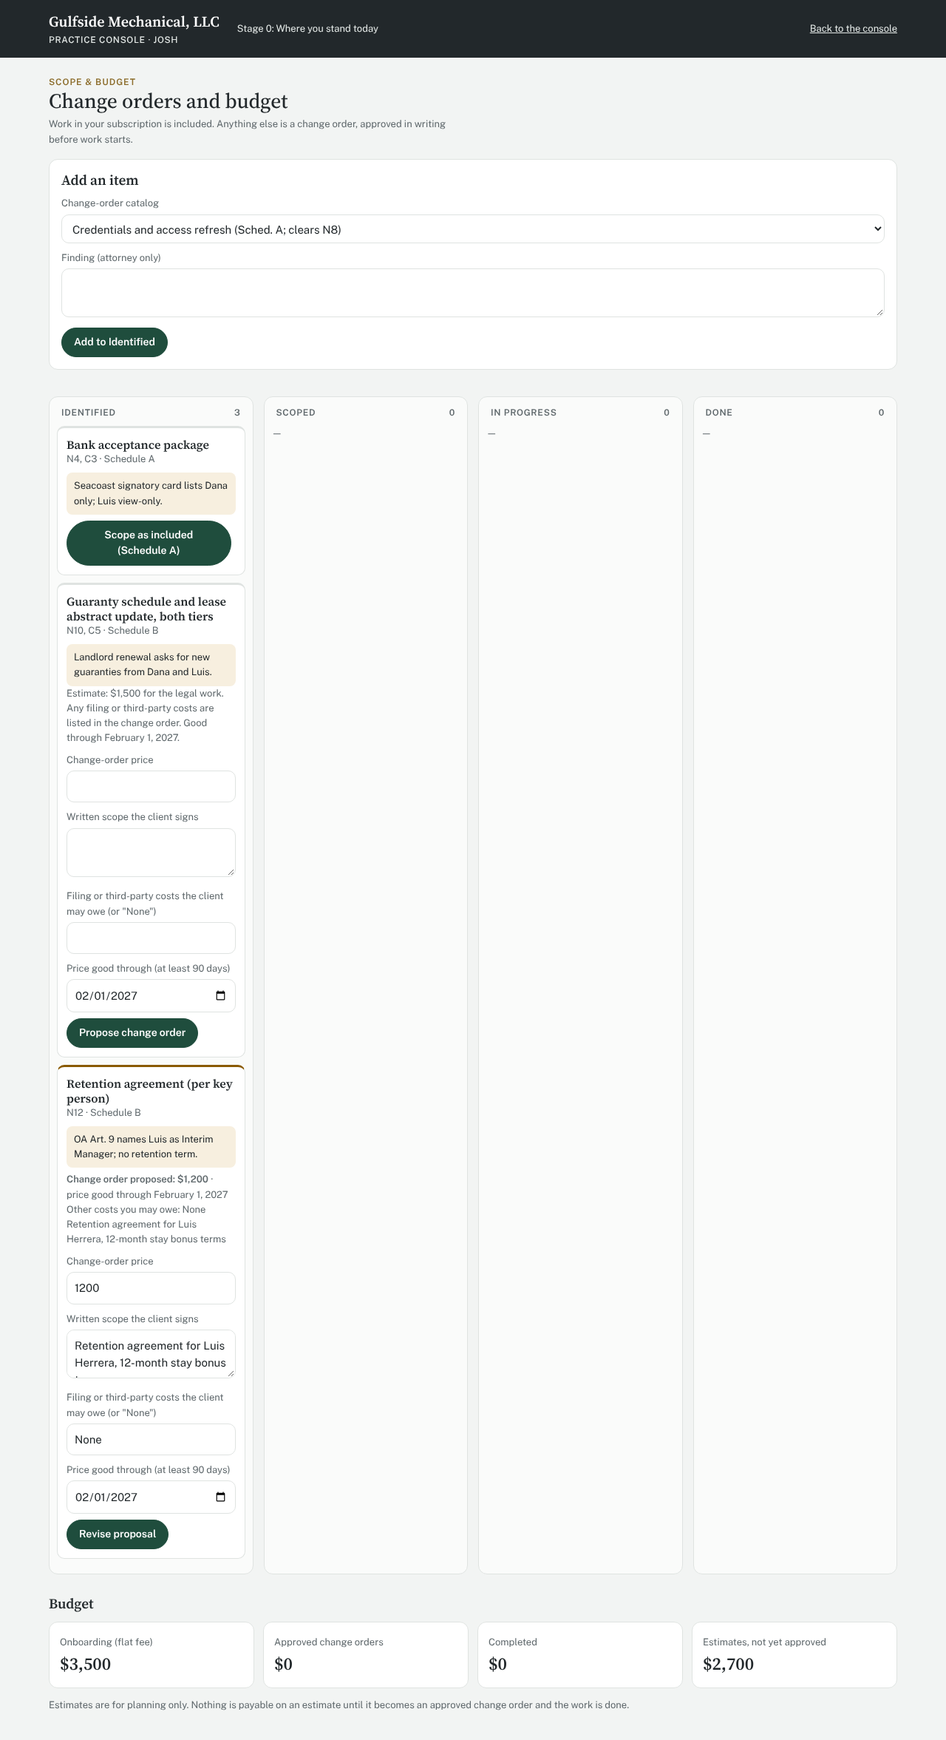
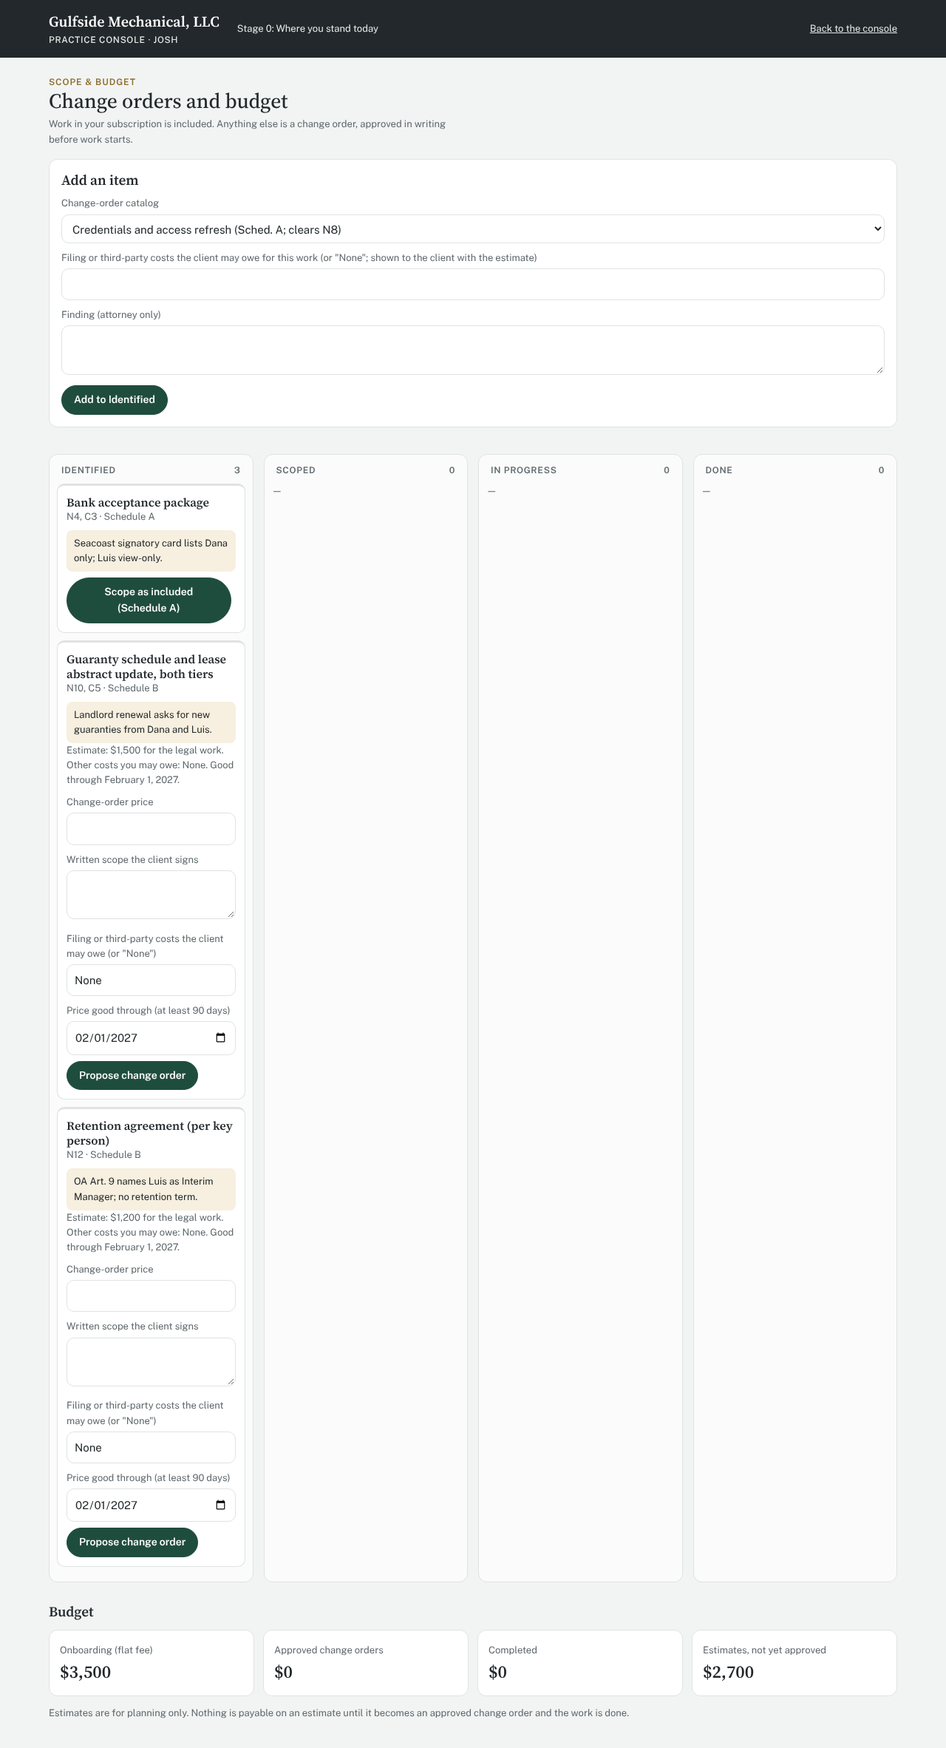
Estimates state other costs the client may owe; fixed through the estimate date
Claude-Session: https://claude.ai/code/session_01JJqaAz9kSZLGUAjjF7xQKQ

diff --git a/core/test/rls.test.ts b/core/test/rls.test.ts
@@ -14,7 +14,7 @@ before(async () => {
   const admin = new pg.Client({ connectionString: base + "/postgres" }); await admin.connect();
   await admin.query(`create database ${db}`); await admin.end();
   pool = new pg.Pool({ connectionString: `${base}/${db}` });
-  for (const f of ["001_init.sql", "002_catalog.sql", "003_board_profile.sql", "008_estimate_terms.sql"]) await pool.query(sql(f));
+  for (const f of ["001_init.sql", "002_catalog.sql", "003_board_profile.sql", "008_estimate_terms.sql", "009_estimate_costs.sql"]) await pool.query(sql(f));
   const one = async (q: string, p: unknown[] = []) => (await pool.query(q + " returning id", p)).rows[0].id;
   id.atty = await one("insert into ws.person(name, role) values ('Josh','attorney')");
   id.owner = await one("insert into ws.person(name, role) values ('Dana','client')");
@@ -84,7 +84,7 @@ test("every profile value carries a source from its own tier", async () => {
   await assert.rejects(as("owner", "ent", c => c.query("insert into ws.profile_value(workspace_id,field,value,source_id) values (ws.cur_ws(),'Lease','x',(select id from ws.source where label='S-DESC'))")), /row-level security/);
 });
 test("board: Scoped only by signed approval or Schedule A; Done ⇒ nodes green; Done is final", async () => {
-  const ins = (co: string, clears: string) => `insert into ws.board_item(workspace_id,co_id,title,clears,allowance) values (ws.cur_ws(),'${co}','${co}','${clears}',1200) returning id`;
+  const ins = (co: string, clears: string) => `insert into ws.board_item(workspace_id,co_id,title,clears,allowance,estimate_costs) values (ws.cur_ws(),'${co}','${co}','${clears}',1200,'None') returning id`;
   await assert.rejects(as("owner", "ent", c => c.query(ins("CO-RET", "{N12}"))), /row-level security/);
   await assert.rejects(as("atty", "ent", c => c.query("insert into ws.board_item(workspace_id,title,clears,col,price,approval_ref,approved_at) values (ws.cur_ws(),'x','{N12}','Done',1,'x',now())")), /start in Identified/);
   // Schedule A: included, no change order
@@ -111,10 +111,12 @@ test("board: Scoped only by signed approval or Schedule A; Done ⇒ nodes green;
   assert.deepEqual([bud.onboarding_fee, Number(bud.approved), Number(bud.completed)], [3500, 1200, 1200]);
 });
 test("estimates and offers: good through at least 90 days; lowered, never raised, before then; expired offers cannot be approved", async () => {
-  const id = await as("atty", "ent", c => c.query("insert into ws.board_item(workspace_id,co_id,title,clears,allowance) values (ws.cur_ws(),'CO-RET','Retention, second person','{N12}',1200) returning id, estimate_good_through, current_date + 90 as min").then(r => r.rows[0])) as any;
+  await assert.rejects(as("atty", "ent", c => c.query("insert into ws.board_item(workspace_id,co_id,title,clears,allowance) values (ws.cur_ws(),'CO-RET','No costs stated','{N12}',1200)")), /filing or third-party costs/);
+  const id = await as("atty", "ent", c => c.query("insert into ws.board_item(workspace_id,co_id,title,clears,allowance,estimate_costs) values (ws.cur_ws(),'CO-RET','Retention, second person','{N12}',1200,'None') returning id, estimate_good_through, current_date + 90 as min").then(r => r.rows[0])) as any;
   assert.equal(String(id.estimate_good_through), String(id.min));
   await assert.rejects(as("atty", "ent", c => c.query("update ws.board_item set allowance = 1500 where id = $1", [id.id])), /lowered, not raised/);
   await as("atty", "ent", c => c.query("update ws.board_item set allowance = 1000 where id = $1", [id.id]));
+  await assert.rejects(as("atty", "ent", c => c.query("update ws.board_item set estimate_costs = 'Recording fee' where id = $1", [id.id])), /fixed through/);
   await assert.rejects(as("atty", "ent", c => c.query("select ws.propose_change_order($1, 1200, 'Retention agreement, second key person', '')", [id.id])), /third-party costs/);
   await as("atty", "ent", c => c.query("select ws.propose_change_order($1, 1200, 'Retention agreement, second key person', 'None', current_date + 10)", [id.id]));
   const o = await as("atty", "ent", c => c.query("select offer_good_through, current_date + 90 as min from ws.board_item where id = $1", [id.id]).then(r => r.rows[0])) as any;

diff --git a/web/board.html b/web/board.html
@@ -66,6 +66,7 @@ section.add{background:var(--page);border:1px solid var(--rule);border-radius:12
   <section class="add" id="add" hidden>
     <h2>Add an item</h2>
     <label for="co">Change-order catalog</label><select id="co"></select>
+    <label for="costs">Filing or third-party costs the client may owe for this work (or "None"; shown to the client with the estimate)</label><input id="costs">
     <label for="finding">Finding (attorney only)</label><textarea id="finding"></textarea>
     <button id="addBtn" type="button">Add to Identified</button>
   </section>
@@ -101,13 +102,13 @@ function card(it){
   let h = `<div class="t">${esc(it.title)}</div><div class="small">${att ? esc((it.clears||[]).join(", ")) + (it.schedule ? " · Schedule " + esc(it.schedule) : "") : "Moves forward: " + esc((it.clears||[]).map(c => LABEL[c] || c).join(", ")) + (it.schedule === "A" ? " · included in your subscription" : it.schedule === "B" ? " · change order" : "")}</div>`;
   if (att && (it.finding || it.attorney_note)) h += `<div class="note">${esc(it.finding)}${it.attorney_note ? "<br>" + esc(it.attorney_note) : ""}</div>`;
   if (it.col === "Identified") {
-    if (it.schedule !== "A" && !pending) h += `<div class="small">Estimate: ${money(it.allowance)} for the legal work. Any filing or third-party costs are listed in the change order.${it.estimate_good_through ? " Good through " + day(it.estimate_good_through) + "." : ""}</div>`;
+    if (it.schedule !== "A" && !pending) h += `<div class="small">Estimate: ${money(it.allowance)} for the legal work. Other costs you may owe: ${esc(it.estimate_costs || "none stated")}.${it.estimate_good_through ? " Good through " + day(it.estimate_good_through) + "." : ""}</div>`;
     if (pending) h += `<div class="small" style="margin-top:6px"><strong>Change order proposed: ${money(it.proposed_price)}</strong>${it.offer_good_through ? " · price good through " + day(it.offer_good_through) : ""}<br>Other costs you may owe: ${esc(it.other_costs || "none stated")}<br>${esc(it.scope_text)}</div>`;
     if (att) {
       if (it.schedule === "A") h += `<div class="acts"><button data-a="included" data-id="${it.id}">Scope as included (Schedule A)</button></div>`;
       else h += `<label for="p${it.id}">Change-order price</label><input id="p${it.id}" type="number" min="0" step="100" value="${it.proposed_price ?? ""}">
         <label for="s${it.id}">Written scope the client signs</label><textarea id="s${it.id}">${esc(it.scope_text ?? "")}</textarea>
-        <label for="o${it.id}">Filing or third-party costs the client may owe (or "None")</label><input id="o${it.id}" value="${esc(it.other_costs ?? "")}">
+        <label for="o${it.id}">Filing or third-party costs the client may owe (or "None")</label><input id="o${it.id}" value="${esc(it.other_costs ?? it.estimate_costs ?? "")}">
         <label for="g${it.id}">Price good through (at least 90 days)</label><input id="g${it.id}" type="date" min="${iso90()}" value="${String(it.offer_good_through ?? "").slice(0, 10) || iso90()}">
         ${it.offered_price != null && it.offer_good_through ? `<div class="small">Offered ${money(it.offered_price)} through ${day(it.offer_good_through)}: before then the price can be lowered, not raised.</div>` : ""}
         <div class="acts"><button data-a="propose" data-id="${it.id}">${pending ? "Revise proposal" : "Propose change order"}</button></div>`;
@@ -147,7 +148,7 @@ function render(){
   });
 }
 async function load(){ try { data = await api("/api/board"); render(); } catch (e) { $("err").textContent = e.message; } }
-$("addBtn").onclick = () => act("/api/board", {co_id: $("co").value, finding: $("finding").value || null}).then(() => { $("finding").value = ""; });
+$("addBtn").onclick = () => act("/api/board", {co_id: $("co").value, finding: $("finding").value || null, estimate_costs: $("costs").value || null}).then(() => { $("finding").value = ""; $("costs").value = ""; });
 if (!AS || !WS) $("err").textContent = "Development sign-in: add ?as=<person-id>&ws=<workspace-id> to the address."; else load();
 </script>
 </body>

diff --git a/server/src/main.ts b/server/src/main.ts
@@ -27,8 +27,8 @@ const pool = process.env.CLOUD_SQL_INSTANCE
   ? new pg.Pool({ host: `/cloudsql/${process.env.CLOUD_SQL_INSTANCE}`, user: process.env.DB_USER ?? "postgres", password: process.env.DB_PASSWORD, database: process.env.DB_NAME ?? "oew", max: 5 })
   : new pg.Pool({ connectionString: process.env.DATABASE_URL });
 if (DEMO_MODE) {
-  // Demo data only: (re)seed when the schema is missing or older than the newest migration (008 adds board_item.offer_good_through).
-  const current = (await pool.query("select exists (select 1 from information_schema.columns where table_schema = 'ws' and table_name = 'board_item' and column_name = 'offer_good_through') ok")).rows[0].ok;
+  // Demo data only: (re)seed when the schema is missing or older than the newest migration (009 adds board_item.estimate_costs).
+  const current = (await pool.query("select exists (select 1 from information_schema.columns where table_schema = 'ws' and table_name = 'board_item' and column_name = 'estimate_costs') ok")).rows[0].ok;
   if (!current) { const c = await pool.connect(); try { await seedDemo(c); } finally { c.release(); } console.log("demo data seeded"); }
 }
 const hasDemoCookie = (req: http.IncomingMessage) => {
@@ -67,7 +67,7 @@ const routes: [string, RegExp, (x: Ctx, m: RegExpExecArray) => Promise<unknown>]
   ["GET", /^\/api\/board$/, async ({ c, role }) => {
     const me = (await c.query("select p.name, p.role, w.tier, cl.name client, coalesce(m.signer,false) signer from ws.person p, ws.workspace w join ws.client cl on cl.id=w.client_id left join ws.membership m on m.workspace_id=w.id and m.person_id=ws.me() where p.id=ws.me() and w.id=ws.cur_ws()")).rows[0];
     if (!me) throw new Error("not in scope");
-    const items = (await c.query(`select b.id, b.co_id, b.title, b.clears, b.col, b.allowance, b.estimate_good_through, b.price, b.proposed_price, b.other_costs, b.offer_good_through, b.scope_text, b.proposed_at, b.approved_at,
+    const items = (await c.query(`select b.id, b.co_id, b.title, b.clears, b.col, b.allowance, b.estimate_costs, b.estimate_good_through, b.price, b.proposed_price, b.other_costs, b.offer_good_through, b.scope_text, b.proposed_at, b.approved_at,
         d.schedule, a.typed_name signed_by, a.signed_at, n.finding, n.attorney_note
       from ws.board_item b left join ws.change_order_def d on d.id=b.co_id
       left join ws.change_order_approval a on a.id::text=b.approval_ref
@@ -143,8 +143,8 @@ const routes: [string, RegExp, (x: Ctx, m: RegExpExecArray) => Promise<unknown>]
   ["POST", /^\/api\/board$/, async ({ c, body }) => {
     const d = (await c.query("select * from ws.change_order_def where id=$1", [body.co_id])).rows[0];
     if (!d) throw new Error("unknown change order");
-    const r = (await c.query("insert into ws.board_item(workspace_id,co_id,title,clears,allowance) values (ws.cur_ws(),$1,$2,$3,$4) returning id",
-      [d.id, d.name, d.clears, Number(body.allowance ?? d.low) || 0])).rows[0];
+    const r = (await c.query("insert into ws.board_item(workspace_id,co_id,title,clears,allowance,estimate_costs) values (ws.cur_ws(),$1,$2,$3,$4,$5) returning id",
+      [d.id, d.name, d.clears, Number(body.allowance ?? d.low) || 0, body.estimate_costs ? String(body.estimate_costs) : null])).rows[0];
     if (body.finding || body.attorney_note) await c.query("insert into ws.board_note values ($1, ws.cur_ws(), $2, $3)", [r.id, body.finding ?? null, body.attorney_note ?? null]);
     return r;
   }],

diff --git a/server/src/demo-seed.ts b/server/src/demo-seed.ts
@@ -5,7 +5,7 @@ import { readFileSync } from "node:fs";
 import type pg from "pg";
 import { SAMPLE_DOCS } from "./sample-docs.ts";
 
-export const MIGRATIONS = ["001_init.sql", "002_catalog.sql", "003_board_profile.sql", "004_frontdoor.sql", "005_intake.sql", "006_profile.sql", "007_threads.sql", "008_estimate_terms.sql"];
+export const MIGRATIONS = ["001_init.sql", "002_catalog.sql", "003_board_profile.sql", "004_frontdoor.sql", "005_intake.sql", "006_profile.sql", "007_threads.sql", "008_estimate_terms.sql", "009_estimate_costs.sql"];
 export const DEMO = {
   attorney: "00000000-0000-4000-8000-000000000001", dana: "00000000-0000-4000-8000-000000000002",
   luis: "00000000-0000-4000-8000-000000000003", engine: "00000000-0000-4000-8000-000000000004",
@@ -43,7 +43,7 @@ export async function seedDemo(c: Q) {
       await c.query("insert into ws.node_status(workspace_id,node_id,status) values (ws.cur_ws(),$1,$2)", [s, n]);
     for (const [co, f] of [["CO-BANK","Seacoast signatory card lists Dana only; Luis view-only."],["CO-RET","OA Art. 9 names Luis as Interim Manager; no retention term."],["CO-GUAR","Landlord renewal asks for new guaranties from Dana and Luis."]]) {
       const d = (await c.query("select * from ws.change_order_def where id=$1", [co])).rows[0];
-      const id = (await c.query("insert into ws.board_item(workspace_id,co_id,title,clears,allowance) values (ws.cur_ws(),$1,$2,$3,$4) returning id", [co, d.name, d.clears, d.low])).rows[0].id;
+      const id = (await c.query("insert into ws.board_item(workspace_id,co_id,title,clears,allowance,estimate_costs) values (ws.cur_ws(),$1,$2,$3,$4,$5) returning id", [co, d.name, d.clears, d.low, d.low > 0 ? "None" : null])).rows[0].id;
       await c.query("insert into ws.board_note values ($1, ws.cur_ws(), $2, null)", [id, f]);
     }
   });

diff --git a/server/test/frontdoor.test.ts b/server/test/frontdoor.test.ts
@@ -35,7 +35,7 @@ const asWho = (p: string, fn: (c: pg.PoolClient) => Promise<any>) => inSession(p
 before(async () => {
   const a = new pg.Client({ connectionString: base + "/postgres" }); await a.connect(); await a.query(`create database ${db}`); await a.end();
   pool = new pg.Pool({ connectionString: `${base}/${db}` });
-  for (const f of ["001_init.sql", "002_catalog.sql", "003_board_profile.sql", "004_frontdoor.sql", "005_intake.sql", "006_profile.sql", "007_threads.sql", "008_estimate_terms.sql"]) await pool.query(readFileSync(new URL("../../core/db/" + f, import.meta.url), "utf8"));
+  for (const f of ["001_init.sql", "002_catalog.sql", "003_board_profile.sql", "004_frontdoor.sql", "005_intake.sql", "006_profile.sql", "007_threads.sql", "008_estimate_terms.sql", "009_estimate_costs.sql"]) await pool.query(readFileSync(new URL("../../core/db/" + f, import.meta.url), "utf8"));
   const one = async (q: string, p: unknown[] = []) => (await pool.query(q + " returning id", p)).rows[0].id;
   for (const [k, n, r] of [["atty", "Josh", "attorney"], ["dana", "Dana", "client"], ["luis", "Luis", "client"], ["engine", "engine", "agent"]]) id[k] = await one("insert into ws.person(name, role) values ($1,$2)", [n, r]);
   const cl = await one("insert into ws.client(name) values ('Gulfside Mechanical, LLC')");

diff --git a/server/test/intake.test.ts b/server/test/intake.test.ts
@@ -45,7 +45,7 @@ const OA_TEXT = "Operating Agreement of Gulfside Mechanical LLC. Article 9 Conti
 before(async () => {
   const a = new pg.Client({ connectionString: base + "/postgres" }); await a.connect(); await a.query(`create database ${db}`); await a.end();
   pool = new pg.Pool({ connectionString: `${base}/${db}` });
-  for (const f of ["001_init.sql", "002_catalog.sql", "003_board_profile.sql", "004_frontdoor.sql", "005_intake.sql", "006_profile.sql", "007_threads.sql", "008_estimate_terms.sql"]) await pool.query(readFileSync(new URL("../../core/db/" + f, import.meta.url), "utf8"));
+  for (const f of ["001_init.sql", "002_catalog.sql", "003_board_profile.sql", "004_frontdoor.sql", "005_intake.sql", "006_profile.sql", "007_threads.sql", "008_estimate_terms.sql", "009_estimate_costs.sql"]) await pool.query(readFileSync(new URL("../../core/db/" + f, import.meta.url), "utf8"));
   const one = async (q: string, p: unknown[] = []) => (await pool.query(q + " returning id", p)).rows[0].id;
   for (const [k, n, r] of [["atty", "Josh", "attorney"], ["dana", "Dana", "client"], ["engine", "engine", "agent"], ["luis", "Luis", "client"]]) id[k] = await one("insert into ws.person(name, role) values ($1,$2)", [n, r]);
   const other = await one("insert into ws.client(name) values ('Ortiz Holdings')");

diff --git a/server/test/profile.test.ts b/server/test/profile.test.ts
@@ -20,7 +20,7 @@ const profile = (ws: string) => as("atty", ws, c => c.query("select field, value
 before(async () => {
   const a = new pg.Client({ connectionString: base + "/postgres" }); await a.connect(); await a.query(`create database ${db}`); await a.end();
   pool = new pg.Pool({ connectionString: `${base}/${db}` });
-  for (const f of ["001_init.sql", "002_catalog.sql", "003_board_profile.sql", "004_frontdoor.sql", "005_intake.sql", "006_profile.sql", "007_threads.sql", "008_estimate_terms.sql"]) await pool.query(readFileSync(new URL("../../core/db/" + f, import.meta.url), "utf8"));
+  for (const f of ["001_init.sql", "002_catalog.sql", "003_board_profile.sql", "004_frontdoor.sql", "005_intake.sql", "006_profile.sql", "007_threads.sql", "008_estimate_terms.sql", "009_estimate_costs.sql"]) await pool.query(readFileSync(new URL("../../core/db/" + f, import.meta.url), "utf8"));
   const one = async (q: string, p: unknown[] = []) => (await pool.query(q + " returning id", p)).rows[0].id;
   for (const [k, n, r] of [["atty", "Josh", "attorney"], ["dana", "Dana", "client"], ["engine", "engine", "agent"]]) id[k] = await one("insert into ws.person(name, role) values ($1,$2)", [n, r]);
   const cl = await one("insert into ws.client(name) values ('Gulfside Mechanical, LLC')");

diff --git a/docs/design/architecture.md b/docs/design/architecture.md
@@ -26,7 +26,7 @@ Decided 2026-11-02 (proposal; Josh to confirm hosting). Preserves the data model
 ## Decisions 2026-11-03
 - **Stages:** short-term disability → long-term disability → retirement → exit, named per Bridges; boundary from the disability policy (docs/design/contingency-sequence-nodes.md, Stage mapping).
 - **R2 (role after stepping back) is personal-engagement work**, dual representation under Rules 4-1.7 and 4-1.13(e) with the carve-outs in owner letter § 2(C).
-- **Client look: B, "Family office"** (decided 2026-11-03): a private-client report. Serif headings, plain sans text, pine green accent, small brass eyebrows, white panels on a cool grey ground; home shows stages as a ladder (business, where they meet, your family office) with "Off your plate" per stage. Full headline kept. Applied to all client pages on the design canvas, and to web/workspace.html (2026-11-03: tabs Your plan, Thursday, Questions, Documents, Scope & budget; ladder built from /api/plan; screenshots docs/design/screens/workspace-home-lookB*.png). Fonts load from Google Fonts in the demo; self-host them before real client data (each page load otherwise tells Google the client's IP address). The Thursday tab lists questions by agenda position only; the client-visible ordering reasons wait on the ordering engine. web/attorney.html and web/board.html restyled the same day (attorney: dark console header; board: light header for the client, dark for the attorney; client board cards show plan-step names and "included in your subscription" or "change order" instead of node ids and Schedule letters). Screenshots: docs/design/screens/*-lookB.png. Estimate and offer terms built 2026-11-03 (core/db/008_estimate_terms.sql): every estimate and change-order price carries a good-through date at least 90 days out, enforced in the database; before that date it can be lowered, never raised; a change order cannot be proposed without stating other costs ("None" allowed) and cannot be approved after its date; the signed approval records the other costs and includes them in its digest. In demo mode the server reseeds when the schema predates 008.
+- **Client look: B, "Family office"** (decided 2026-11-03): a private-client report. Serif headings, plain sans text, pine green accent, small brass eyebrows, white panels on a cool grey ground; home shows stages as a ladder (business, where they meet, your family office) with "Off your plate" per stage. Full headline kept. Applied to all client pages on the design canvas, and to web/workspace.html (2026-11-03: tabs Your plan, Thursday, Questions, Documents, Scope & budget; ladder built from /api/plan; screenshots docs/design/screens/workspace-home-lookB*.png). Fonts load from Google Fonts in the demo; self-host them before real client data (each page load otherwise tells Google the client's IP address). The Thursday tab lists questions by agenda position only; the client-visible ordering reasons wait on the ordering engine. web/attorney.html and web/board.html restyled the same day (attorney: dark console header; board: light header for the client, dark for the attorney; client board cards show plan-step names and "included in your subscription" or "change order" instead of node ids and Schedule letters). Screenshots: docs/design/screens/*-lookB.png. Estimate and offer terms built 2026-11-03 (core/db/008_estimate_terms.sql): every estimate and change-order price carries a good-through date at least 90 days out, enforced in the database; before that date it can be lowered, never raised; every estimate above zero, and every change order, must state the filing or third-party costs the client may owe ("None" allowed; core/db/009_estimate_costs.sql), and the statement is fixed through the estimate's date; a change order cannot be proposed without that statement and cannot be approved after its date; the signed approval records the other costs and includes them in its digest. In demo mode the server reseeds when the schema predates 009. Demo seed states "None" for the sample estimates (fictional client).
 - **The family office runs through the whole plan, from onboarding** (decided 2026-11-03). Theme: succeeding from being in business to live to being in the business of living. Client home headline: "From being in business to live, to being in the business of living"; the family office is how the owner gets there; the owner lane is named "Your family office" from Stage 1; each stage states what comes "Off your plate" (tasks and decisions that move to named people, documents and advisors; never hours or time estimates). Stage 4 line: "Your family's affairs: run by your office and your advisors, under rules your family sets" (does not presume the owner chairs governance). Framing line: "Your family office is how you get there. Stage by stage, the business and your family's affairs get written rules, named people, and advisors with clear roles, so less has to pass through you."
 - **Everything the Firm provides is legal services** (Rule 4-5.7(a), read 2026-11-03): the workspace, board, agendas and advisor coordination are entwined with the legal work, so every Bar rule applies to them, including confidentiality, conflicts and advertising. **Build requirement:** any workspace user who is not a client (interim manager, family contact, an advisor) must see and accept, before first use, a written notice naming the Firm's client, stating that the Firm does not represent them, that the client's interests may differ from theirs, that what they see there carries no client-lawyer protection for them, and that the Firm cannot advise them other than to suggest their own lawyer (Rules 4-5.7(b), (d); 4-4.3(a)). For those users the front door and intake agent must also never imply the Firm is neutral; the five permitted forms already exclude advice. Not yet built.
 - **Destination is the family office** (the advisor team the Firm coordinates; an entity when the size justifies it). S4 "Your family office is in place"; Phase 3 manages it under a separate letter, cadence and client case by case.
